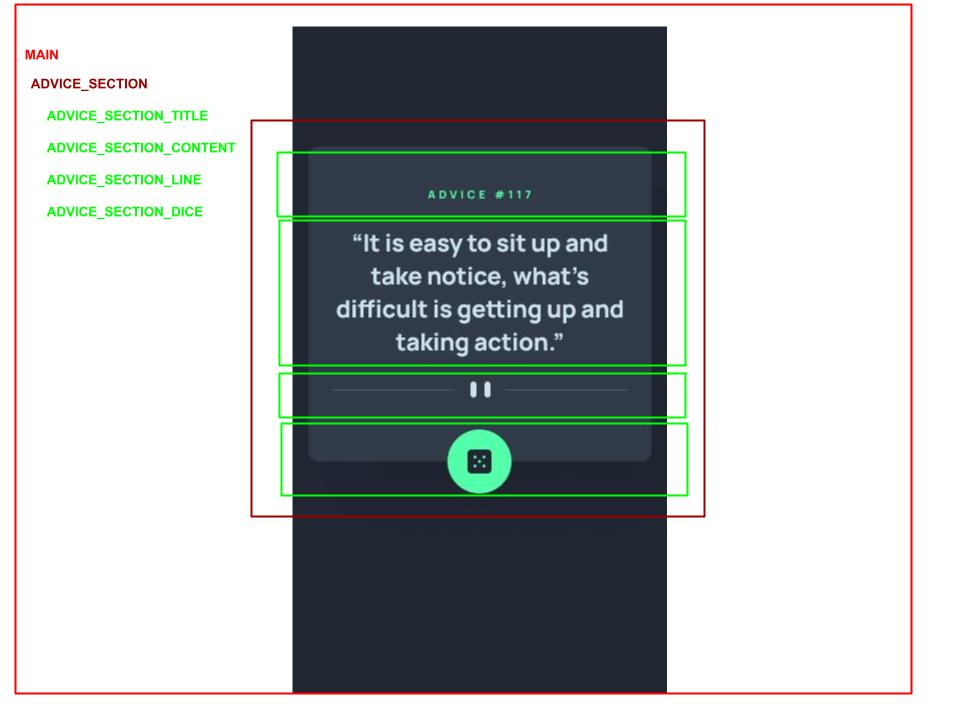
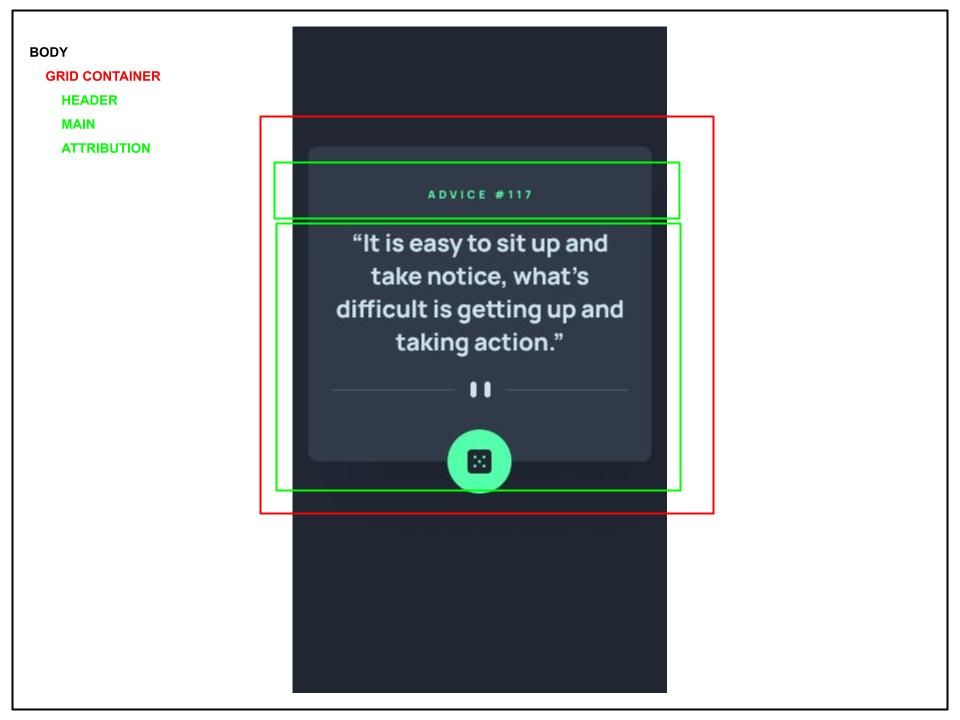
update index.html_2, README.md_2, add index.css, drawing_for_mobile&desktop.jpg

Changed region(s): [[0.0, 0.0, 1.0, 1.0]]

diff --git a/index.html b/index.html
@@ -1,18 +1,33 @@
 <!DOCTYPE html>
 <html lang="en">
 <head>
-  <meta charset="UTF-8"/>
+  <meta charset="UTF-8" />
   <title>Frontend Mentor | Advice generator app</title>
-  <meta name="viewport" content="width=device-width, initial-scale=1.0"/>
-  <meta name="keywords" content="Advice generator app"/>
-  <meta name="description" content=" Advice generator app challenge on Frontend Mentor"/>
-  <link rel="icon" type="image/png" sizes="32x32" href="./assets/images/favicon-32x32.png"/>
-  <!--<link href="https://fonts.googleapis.com/css2?family=Plus+Jakarta+Sans:wght@500;800&display=swap" rel="stylesheet" />-->
-  <!--<link rel="stylesheet" href="main.css"/>
-  <script defer type="module" src="index.js"></script>-->
+  <meta name="viewport" content="width=device-width, initial-scale=1.0" />
+  <meta name="keywords" content="Advice generator app" />
+  <meta name="description" content=" Advice generator app challenge on Frontend Mentor" />
+  <link rel="icon" type="image/png" sizes="32x32" href="./assets/images/favicon-32x32.png" />
+  <link href="https://fonts.googleapis.com/css2?family=Manrope:wght@800&display=swap" rel="stylesheet" />
+  <link rel="stylesheet" href="index.css" />
+  <!--<script defer src="index.js"></script>-->
 </head>
 <body>
     <div class="grid_container">
+        <!--1st component-->
+        <header class="header">
+            <h1 class="advice_title">Advice #117</h1>
+        </header>
+        <!--2nd component-->
+        <main class="main">
+            <p class="advice_content">"It is easy to sit up and take notice, what's difficult is getting up and taking action."</p>
+            <picture class="advice_line">
+                <source media="(max-width: 47.9375rem)" srcset="images/pattern-divider-mobile.svg">
+                <source media="(min-width: 48rem)" srcset="images/pattern-divider-desktop.svg">
+                <img src="images/pattern-divider-desktop.svg" alt="Pattern divider" />
+            </picture>
+            <div class="advice_dice"><img class="dice" src="images/icon-dice.svg" alt="Dice" /></div>
+        </main>
+        <!--3rd component-->
         <footer class="attribution">
             Challenge by <a href="https://www.frontendmentor.io?ref=challenge" target="_blank">Frontend Mentor</a>. 
             Coded by <a href="#">@Darionas</a>.

diff --git a/index.css b/index.css
@@ -1,0 +1,88 @@
+@import url(reset.css);
+@import url(FM_part.css);
+
+
+:root {
+    /* colors */
+    /* primary*/
+    --clr-light-cyan: hsl(193, 38%, 86%);
+    --clr-neon-green: hsl(150, 100%, 66%);
+
+     /* neutral */
+     --clr-grayish-blue: hsl(217, 19%, 38%);
+     --clr-dark-grayish-blue: hsl(217, 19%, 24%);
+     --clr-dark-blue: (218, 23%, 16%);
+  
+    /* typography */
+    /* fonts */
+    --ff-primary: 'Manrope', sans-serif;
+    --fw-800: 800; /* base */
+    --fs-28: 1.75rem; /* 28px base */
+}
+
+
+html {
+    height: 100%;
+}
+
+body {
+    min-height: 100%;
+}
+
+p {
+    line-height: 1.5;
+}
+
+
+body {
+    display: flex;
+    justify-content: center;
+    font-family: var(--ff-primary);
+    font-size: var(--fs-16);
+    font-weight: var(--fw-500);
+}
+
+/*---------------------Mobile layout-------------------------*/
+.grid_container {
+    display: grid;
+    grid-template-columns: 1fr;
+    grid-template-areas:
+        'header'
+        'main'
+        'attribution';
+    justify-items: center;
+    justify-content: center;
+    max-width: 24rem;
+}
+
+/* style 1st component - mobile */
+
+
+/* style 2nd component - mobile */
+
+
+/* style 3rd component - mobile */
+/*Component is styled in external css file*/
+
+/*---------------------Desktop layout-------------------------*/
+@media screen and (min-width: 48rem) {
+
+
+
+/* style 1st component - desktop */
+
+
+/* style 2nd component - desktop */ 
+
+
+/*style 3rd component - desktop */
+/*Component is styled in external css file*/
+
+}
+
+/*------------------grid area names---------------------------*/
+
+
+.attribution {
+    grid-area: attribution;
+}

diff --git a/README.md b/README.md
@@ -23,8 +23,8 @@ Your users should be able to:
 
 - [x] Create drawings for mobile/desktop from design (structure of design)(1st task)
 - [x] Create of repo (2nd task)
-- [ ] Create HTML layout (3rd task)
-- [ ] Create CSS layout according style guides (4th task)
+- [x] Create HTML layout (3rd task)
+- [x] Create CSS layout according style guides (4th task)
 - [ ] Create grid layout for mobile first (5th task)
 - [ ] Craete grid layout for desktop (6th task)
 - [ ] Implement JavaScript & API (7th task)
